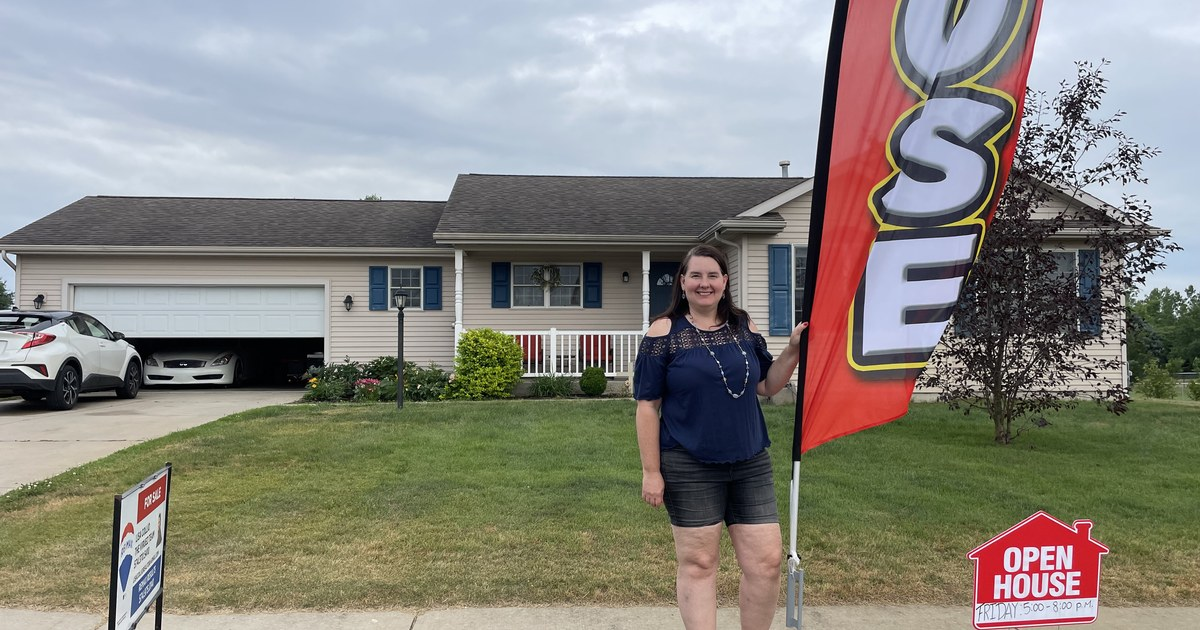
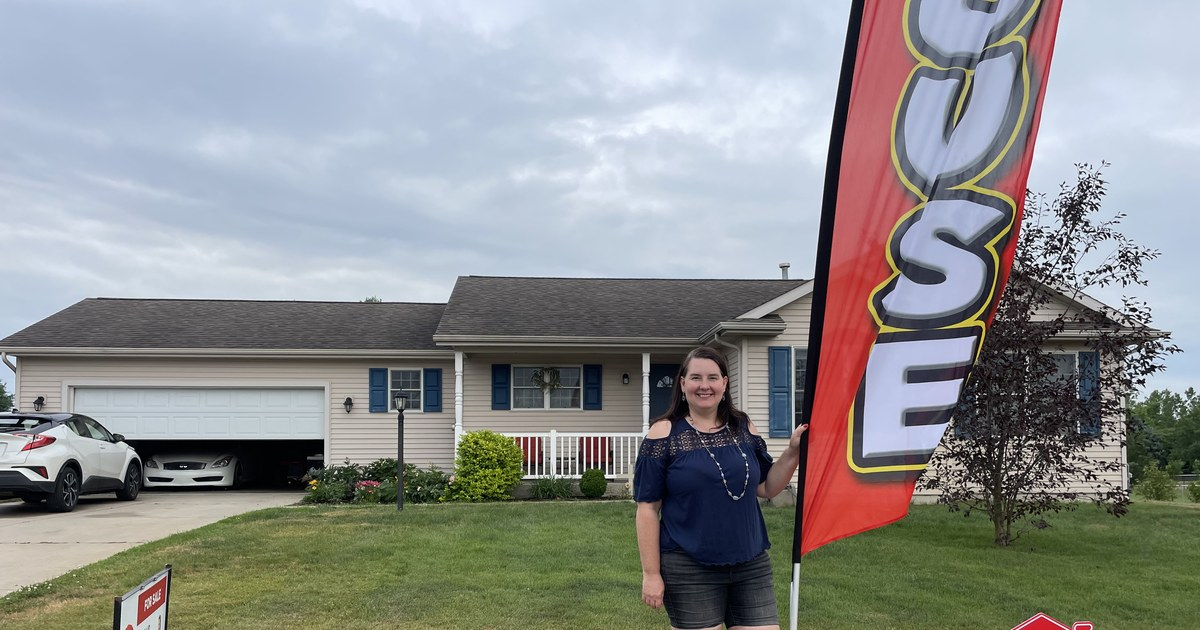
Fix live banned-number violation on what-is-it-like-to-work-with-lisa-collio
The featured image on /blog/community/what-is-it-like-to-work-with-lisa-collio/
carried the banned phone number 574-975-0141, legible in the bottom-left
corner of the delivered 1200x630 crop. Live since whenever that page's
featured image was originally built; found while checking a different
banned-number asset for live references in the prior PR.

- Added crop_box (0.0, 0.0, 1.0, 0.75) to the job's CLEAN_JOBS entry in
  scripts/generate-featured-images.py, restricting the source to its top
  75% before the existing focal_y=0.45 cover-crop. Rebuilt with --clean.
- Verified the regenerated header/thumb (+ both .webp) at full delivered
  resolution: no phone number appears anywhere in the frame, banned or
  correct. Lisa, the open-house flag, and the house are all still fully
  in frame.
- hash-assets.js propagated the new content hash to all three pages that
  reference this file: the article itself, /blog/'s listing card, and
  /about/'s FAQ media block.
- Found and fixed a second dangling reference while rebuilding: the
  "moving-to-goshen-indiana-from-out-of-state" job also sourced from the
  now-deleted lisa-collio-for-sale-sign-summer.jpg, crashing --clean.
  Checked that job's own live delivered image directly (different
  focal_y, different framing) and confirmed it was never a violation --
  the number falls outside its frame. Since the source is gone for
  cause, added a SOURCE_DELETED sentinel (parallel to the existing
[…]

diff --git a/blog/community/what-is-it-like-to-work-with-lisa-collio/index.html b/blog/community/what-is-it-like-to-work-with-lisa-collio/index.html
@@ -13,12 +13,12 @@
 <link rel="alternate" hreflang="en" href="https://lisacolliorealtor.com/blog/community/what-is-it-like-to-work-with-lisa-collio/">
 <link rel="alternate" hreflang="es" href="https://lisacolliorealtor.com/blog/spanish/como-es-trabajar-con-lisa-collio/">
 <link rel="alternate" hreflang="x-default" href="https://lisacolliorealtor.com/blog/community/what-is-it-like-to-work-with-lisa-collio/">
-<meta property="og:image" content="https://lisacolliorealtor.com/assets/images/blog-headers/what-is-it-like-to-work-with-lisa-collio-header.jpg?v=d939d65f">
+<meta property="og:image" content="https://lisacolliorealtor.com/assets/images/blog-headers/what-is-it-like-to-work-with-lisa-collio-header.jpg?v=72e060b2">
 <meta property="og:image:width" content="1200">
 <meta property="og:image:height" content="630">
 <meta property="og:image:alt" content="Lisa Collio standing beside an open-house flag in front of a home.">
 <meta name="twitter:card" content="summary_large_image">
-<meta name="twitter:image" content="https://lisacolliorealtor.com/assets/images/blog-headers/what-is-it-like-to-work-with-lisa-collio-header.jpg?v=d939d65f">
+<meta name="twitter:image" content="https://lisacolliorealtor.com/assets/images/blog-headers/what-is-it-like-to-work-with-lisa-collio-header.jpg?v=72e060b2">
 <link rel="preload" href="/assets/fonts/bricolage-grotesque-latin.woff2" as="font" type="font/woff2" crossorigin>
 <link rel="preload" href="/assets/fonts/instrument-sans-latin.woff2" as="font" type="font/woff2" crossorigin>
 <link rel="stylesheet" href="/assets/css/tokens.css?v=f7a5062e">
@@ -32,7 +32,7 @@
       "@id": "https://lisacolliorealtor.com/blog/community/what-is-it-like-to-work-with-lisa-collio/#article",
       "mainEntityOfPage": "https://lisacolliorealtor.com/blog/community/what-is-it-like-to-work-with-lisa-collio/",
       "headline": "What Is It Like to Work with Lisa Collio as a Buyer or Seller in Goshen and Elkhart, Indiana?",
-      "image": "https://lisacolliorealtor.com/assets/images/blog-headers/what-is-it-like-to-work-with-lisa-collio-header.jpg?v=d939d65f",
+      "image": "https://lisacolliorealtor.com/assets/images/blog-headers/what-is-it-like-to-work-with-lisa-collio-header.jpg?v=72e060b2",
       "description": "What is it like to work with Lisa Collio? Buyers and sellers in Goshen and Elkhart, Indiana describe clear steps, steady communication, and no pressure.",
       "inLanguage": "en",
       "datePublished": "2026-07-21",
@@ -203,7 +203,7 @@
         <a href="/">Home</a> · <a href="/blog/">Blog</a> · <a href="/blog/community/">Community</a> · Working with Lisa
       </nav>
       <h1>What Is It Like to Work with Lisa Collio as a Buyer or Seller in Goshen and Elkhart, Indiana?</h1>
-      <img class="blog-featured" src="/assets/images/blog-headers/what-is-it-like-to-work-with-lisa-collio-header.jpg?v=d939d65f" width="1200" height="630" alt="Lisa Collio standing beside an open-house flag in front of a home." loading="eager" decoding="async">
+      <img class="blog-featured" src="/assets/images/blog-headers/what-is-it-like-to-work-with-lisa-collio-header.jpg?v=72e060b2" width="1200" height="630" alt="Lisa Collio standing beside an open-house flag in front of a home." loading="eager" decoding="async">
     </div>
   </section>
 

diff --git a/about/index.html b/about/index.html
@@ -380,8 +380,8 @@
       <div class="faq-item faq-item--media faq-item--left">
         <a class="faq-item__media" href="/blog/community/what-is-it-like-to-work-with-lisa-collio/" tabindex="-1" aria-hidden="true">
           <picture>
-            <source type="image/webp" srcset="/assets/images/blog-headers/what-is-it-like-to-work-with-lisa-collio-thumb.webp?v=a041ef4f">
-            <img src="/assets/images/blog-headers/what-is-it-like-to-work-with-lisa-collio-thumb.jpg?v=b041fa2e" width="800" height="420" alt="Lisa Collio standing beside an open-house flag in front of a home." loading="lazy" decoding="async">
+            <source type="image/webp" srcset="/assets/images/blog-headers/what-is-it-like-to-work-with-lisa-collio-thumb.webp?v=276accac">
+            <img src="/assets/images/blog-headers/what-is-it-like-to-work-with-lisa-collio-thumb.jpg?v=80857926" width="800" height="420" alt="Lisa Collio standing beside an open-house flag in front of a home." loading="lazy" decoding="async">
           </picture>
         </a>
         <div class="faq-item__body">

diff --git a/blog/index.html b/blog/index.html
@@ -359,8 +359,8 @@
         <article class="blog-card">
           <a class="blog-card__thumb" href="/blog/community/what-is-it-like-to-work-with-lisa-collio/" tabindex="-1" aria-hidden="true">
             <picture>
-              <source type="image/webp" srcset="/assets/images/blog-headers/what-is-it-like-to-work-with-lisa-collio-thumb.webp?v=a041ef4f">
-              <img src="/assets/images/blog-headers/what-is-it-like-to-work-with-lisa-collio-thumb.jpg?v=b041fa2e" width="800" height="420" alt="Lisa Collio standing beside an open-house flag in front of a home." loading="lazy" decoding="async">
+              <source type="image/webp" srcset="/assets/images/blog-headers/what-is-it-like-to-work-with-lisa-collio-thumb.webp?v=276accac">
+              <img src="/assets/images/blog-headers/what-is-it-like-to-work-with-lisa-collio-thumb.jpg?v=80857926" width="800" height="420" alt="Lisa Collio standing beside an open-house flag in front of a home." loading="lazy" decoding="async">
             </picture>
           </a>
           <div class="blog-card__text">

diff --git a/scripts/generate-featured-images.py b/scripts/generate-featured-images.py
@@ -931,6 +931,15 @@ def build_section_jobs():
 # reproducible: 50 of 52 jobs regenerate byte-for-byte.
 FROM_COMPOSITE = "<from-composite>"
 
+# Sentinel for a job whose source photo was deleted for cause (a rejected-
+# assets.txt ruling) and must never be re-fetched or re-derived from, even
+# though the already-built -header/-thumb/.webp files on disk are correct and
+# stay live. build_clean_jobs() skips these with a printed note instead of
+# crashing on a missing file. See each entry's own comment for which ruling
+# and why this one specific job's delivered output was checked and found
+# clean despite the source being gone.
+SOURCE_DELETED = "<source-deleted>"
+
 
 def generate_clean_from_composite(out_slug, thumb=True):
     """Rebuild a clean image from the photo region of an existing Template B
@@ -961,7 +970,11 @@ CLEAN_JOBS = {
     "why-clients-choose-lisa-collio":
         ("assets/images/lisa/lisa-collio-headshot-remax-branded.jpg", 0.58, None),
     "what-is-it-like-to-work-with-lisa-collio":
-        ("assets/images/lisa/lisa-collio-open-house-flag-summer.jpg", 0.45, None),
+        ("assets/images/lisa/lisa-collio-open-house-flag-summer.jpg", 0.45, (0.0, 0.0, 1.0, 0.75)),
+        # crop_box added 18 Aug 2026: the source's yard sign carries the banned
+        # number 574-975-0141 in its bottom blue bar (source y ~77-79%). This
+        # excludes the bottom quarter of the source entirely, well clear of it,
+        # verified against the delivered 1200x630 output below.
 
     # --- Group 1: Template A house photos, source already clean in homes-general/
     "buying-an-older-home-in-elkhart-indiana":
@@ -1051,7 +1064,17 @@ CLEAN_JOBS = {
     "why-lisa-collio-became-real-estate-agent":
         ("assets/images/lisa/lisa-collio-holiday-lights-portrait-2.jpg", 0.30, None),
     "moving-to-goshen-indiana-from-out-of-state":
-        ("assets/images/lisa/lisa-collio-for-sale-sign-summer.jpg", 0.35, None),
+        (SOURCE_DELETED, 0.35, None),
+        # Source was assets/images/lisa/lisa-collio-for-sale-sign-summer.jpg,
+        # DELETED 17 Aug 2026 (content/source/rejected-assets.txt Ruling 4):
+        # the same yard sign carries the banned number 574-975-0141, but in a
+        # DIFFERENT spot than the what-is-it-like-to-work-with-lisa-collio job
+        # above -- checked directly against this job's own delivered output at
+        # this focal_y (0.35), not assumed from the other job's crop: the
+        # number sits below this frame's bottom edge, not in it. Delivered
+        # -header/-thumb/.webp files on disk are correct and unaffected by the
+        # source deletion. Not reproducible by --clean until Lisa supplies a
+        # replacement source under this same job entry.
     # These two were framed by hand in the original composite. Rather than guess
     # the crop, take the photo region straight out of the Template B composite:
     # in B the colour band sits BELOW the photo and never overlaps it, so that
@@ -1090,6 +1113,9 @@ def build_clean_jobs():
     for slug, (src, focal_y, crop_box) in CLEAN_JOBS.items():
         if src is FROM_COMPOSITE or src == FROM_COMPOSITE:
             print(generate_clean_from_composite(slug))
+        elif src is SOURCE_DELETED or src == SOURCE_DELETED:
+            print(f"{slug}: skipped, source deleted for cause (see job comment) "
+                  f"-- delivered files on disk unchanged")
         else:
             print(generate_clean(src, slug, focal_y=focal_y, crop_box=crop_box))
 

diff --git a/docs/V2.17 Pre Launch Punch List Lisa Collio.md b/docs/V2.17 Pre Launch Punch List Lisa Collio.md
@@ -292,7 +292,17 @@ Nothing here can be resolved by Claude Code. All are blocked on original photogr
 
 ## E. Copy & compliance
 
-- [ ] **LIVE VIOLATION — banned phone number 574-975-0141 is legible on `/blog/community/what-is-it-like-to-work-with-lisa-collio/`'s featured image right now, both languages' `og:image` inherit it. Found 17 August 2026 during an unrelated blog-images task; predates that task.** Full detail (source file, exact crop math, how it was verified at full resolution rather than assumed from a blurry thumbnail) is in §A0's blog-listing-images item — not duplicated here. **Needs Lisa's decision before it can close:** re-crop `assets/images/lisa/lisa-collio-open-house-flag-summer.jpg` to exclude the sign's bottom bar, or replace the source photo entirely. Either path requires regenerating `what-is-it-like-to-work-with-lisa-collio-header.jpg`/`-thumb.jpg` and both `.webp` siblings, then re-verifying `og:image`/`twitter:image`/JSON-LD `image` on the live page — a source swap alone does not do this, per the Source-Repoint Standard.
+- [x] **LIVE VIOLATION, FIXED 18 August 2026 — banned phone number 574-975-0141 was legible on `/blog/community/what-is-it-like-to-work-with-lisa-collio/`'s featured image, live, both languages' `og:image` inheriting it. Found 17 August 2026 during an unrelated blog-images task; predates that task.**
+  **How it got there, in one sentence, because this is the part worth remembering:** the source file's name — `lisa-collio-open-house-flag-summer.jpg` — gives no signal at all that a phone number is anywhere in the frame, so every filename-based sweep for "sign," "banner," "flag," "graphic," "courthouse," "listing" walked right past the fact that this particular "flag" photo also has a yard sign with the banned number in it, at the very bottom of the frame. The sweep found six loose assets by filename; it could never have found this one, because this one wasn't a loose asset that looked like signage — it was already load-bearing as a live page's featured image, and the giveaway (a yard sign) was incidental background in a photo about something else (an open-house flag).
+  **Where in the frame:** roughly x 11–14%, y 90–94% of the delivered 1200×630 crop — bottom-left corner, in the last ~10% strip of the frame.
+  **Fix:** added a `crop_box` of `(0.0, 0.0, 1.0, 0.75)` to the `what-is-it-like-to-work-with-lisa-collio` entry in `scripts/generate-featured-images.py`'s `CLEAN_JOBS` table — restricts the source to its top 75% before the existing `focal_y=0.45` cover-crop runs. Rebuilt with `--clean`; the regenerated header and thumb (plus both `.webp` siblings) were checked directly, at full delivered resolution, not assumed clean from the crop math alone: **no phone number appears anywhere in the frame at all — not the banned one, not the correct one.** Lisa, the open-house flag, and the full house are all still intact; only the ground and the very top edge of the yard sign's red band survive, with no text readable on it. `hash-assets.js` propagated the new content hash to all three pages that reference this file (the article page itself, `/blog/`'s listing card, and `/about/`'s FAQ media block) — a genuine third reference the fix had to reach that a narrower "fix the one page" pass would have missed.
+  **A second, related finding surfaced only while rebuilding, not by any sweep:** `moving-to-goshen-indiana-from-out-of-state` (a different article) also used the now-deleted `lisa-collio-for-sale-sign-summer.jpg` as its `CLEAN_JOBS` source — the exact file removed in the prior PR for carrying the same banned number. Running `--clean` after that deletion crashed on a missing file. Checked that job's own already-built, already-live header at its own `focal_y` (0.35, different framing from the job above) directly, not assumed clean because the other job turned out clean: **the number sits below this delivered frame's bottom edge, not in it — this one was never a live violation.** Since the source is gone for cause and must not be restored, the job-table entry was changed to a new `SOURCE_DELETED` sentinel (parallel to the existing `FROM_COMPOSITE` pattern) that makes `--clean` skip it with a printed note instead of crashing, while leaving the correct, already-built delivered files untouched and the Build Record Standard intact — the entry still states what happened and why, just not a reproducible source path anymore.
+  **This is not a fixed set of files to clean once.** The banned number is printed on physical yard signs and flags Lisa still owns and uses. Any future photo of that signage — at an open house, a listing, a sold celebration — carries the same problem, regardless of what the photo is *of* or how it gets named. This needs to be a standing check applied to new photography as it comes in, not a closed incident.
+  **The sweep gap, recorded in Lisa's own words: the honest claim is "the checked images are clean," not "all images are clean."** Three named, un-closed gaps:
+    1. **~35 files in `assets/images/lisa/` and `assets/images/client-general/` whose filenames give no signage signal at all** — convention/expo photos, award-wall shots, family and holiday photos, casual selfies. Any could have a yard sign, banner, or printed card incidental in the background. None of these were opened.
+    2. **67 real listing photos in `assets/images/homes-elkhart/`/`homes-goshen/`** — one `card-photo.jpg` spot-checked (clean, professional MLS photography with no marketing text baked in), not verified as a class.
+    3. **The keyword list is its own ceiling.** Every sweep run so far (filenames containing sign/banner/flag/graphic/courthouse/listing, then business-card-adjacent terms) is only as good as the words chosen. This exact violation proved the ceiling is real: "open-house-flag-summer" matched the keyword sweep on "flag" and still wasn't caught, because the sweep checked filenames for signage-shaped words, not frames for signage-shaped content.
+  **OCR across the full image set is the real fix for the sweep gap, and it's a separate decision with its own cost** — logged here as a **post-launch item, not a pre-launch blocker.** One wrong number surviving in a background photo is a small, one-line-fixable harm if and when it surfaces, not a launch-blocking risk proportional to the cost of auditing roughly 100 more images by hand today.
 
 - [x] **Review-card quote marks unified sitewide, and a rotating thank-you-message card replaces the static "Lisa's clients" caption — DONE 17 August 2026.** Report-Before-Build: Lisa reported one broken card (a floating opening quote with no closing pair on the text-only variant); the Phase 0 recon found the actual scope was a field class, not one card — **three different, inconsistent behaviors** for the same visual element: the text-only card's oversized floating `::before` (no closing pair), the photo card's variant which had **no quote mark at all**, and — found only once the recon widened past the one card Lisa had seen — **eight pages** (Home, Buyers, Sellers, About, and their ES twins) carrying hand-authored "featured review" blocks outside the rotation system with literal quote characters typed directly into the markup (curly `" "` on English pages, guillemets `« »` on Spanish pages, confirmed by direct inspection, not assumed identical to English).
   **Fix:** CSS `quotes: "\201C" "\201D"` plus `::before`/`::after: open-quote/close-quote` on the shared `.review-card blockquote` selector — wraps the actual text (opens before the first character, closes after the last) on every review card sitewide, both languages, zero markup changes needed in `build-reviews.js`'s 135 rotation-managed pages. The old oversized floating glyph and its now-unnecessary compensating top-padding were removed from `.review-card--textonly`. The 19 literal quote characters across the 8 hand-authored pages were removed from the markup so they don't double up with the new CSS.
